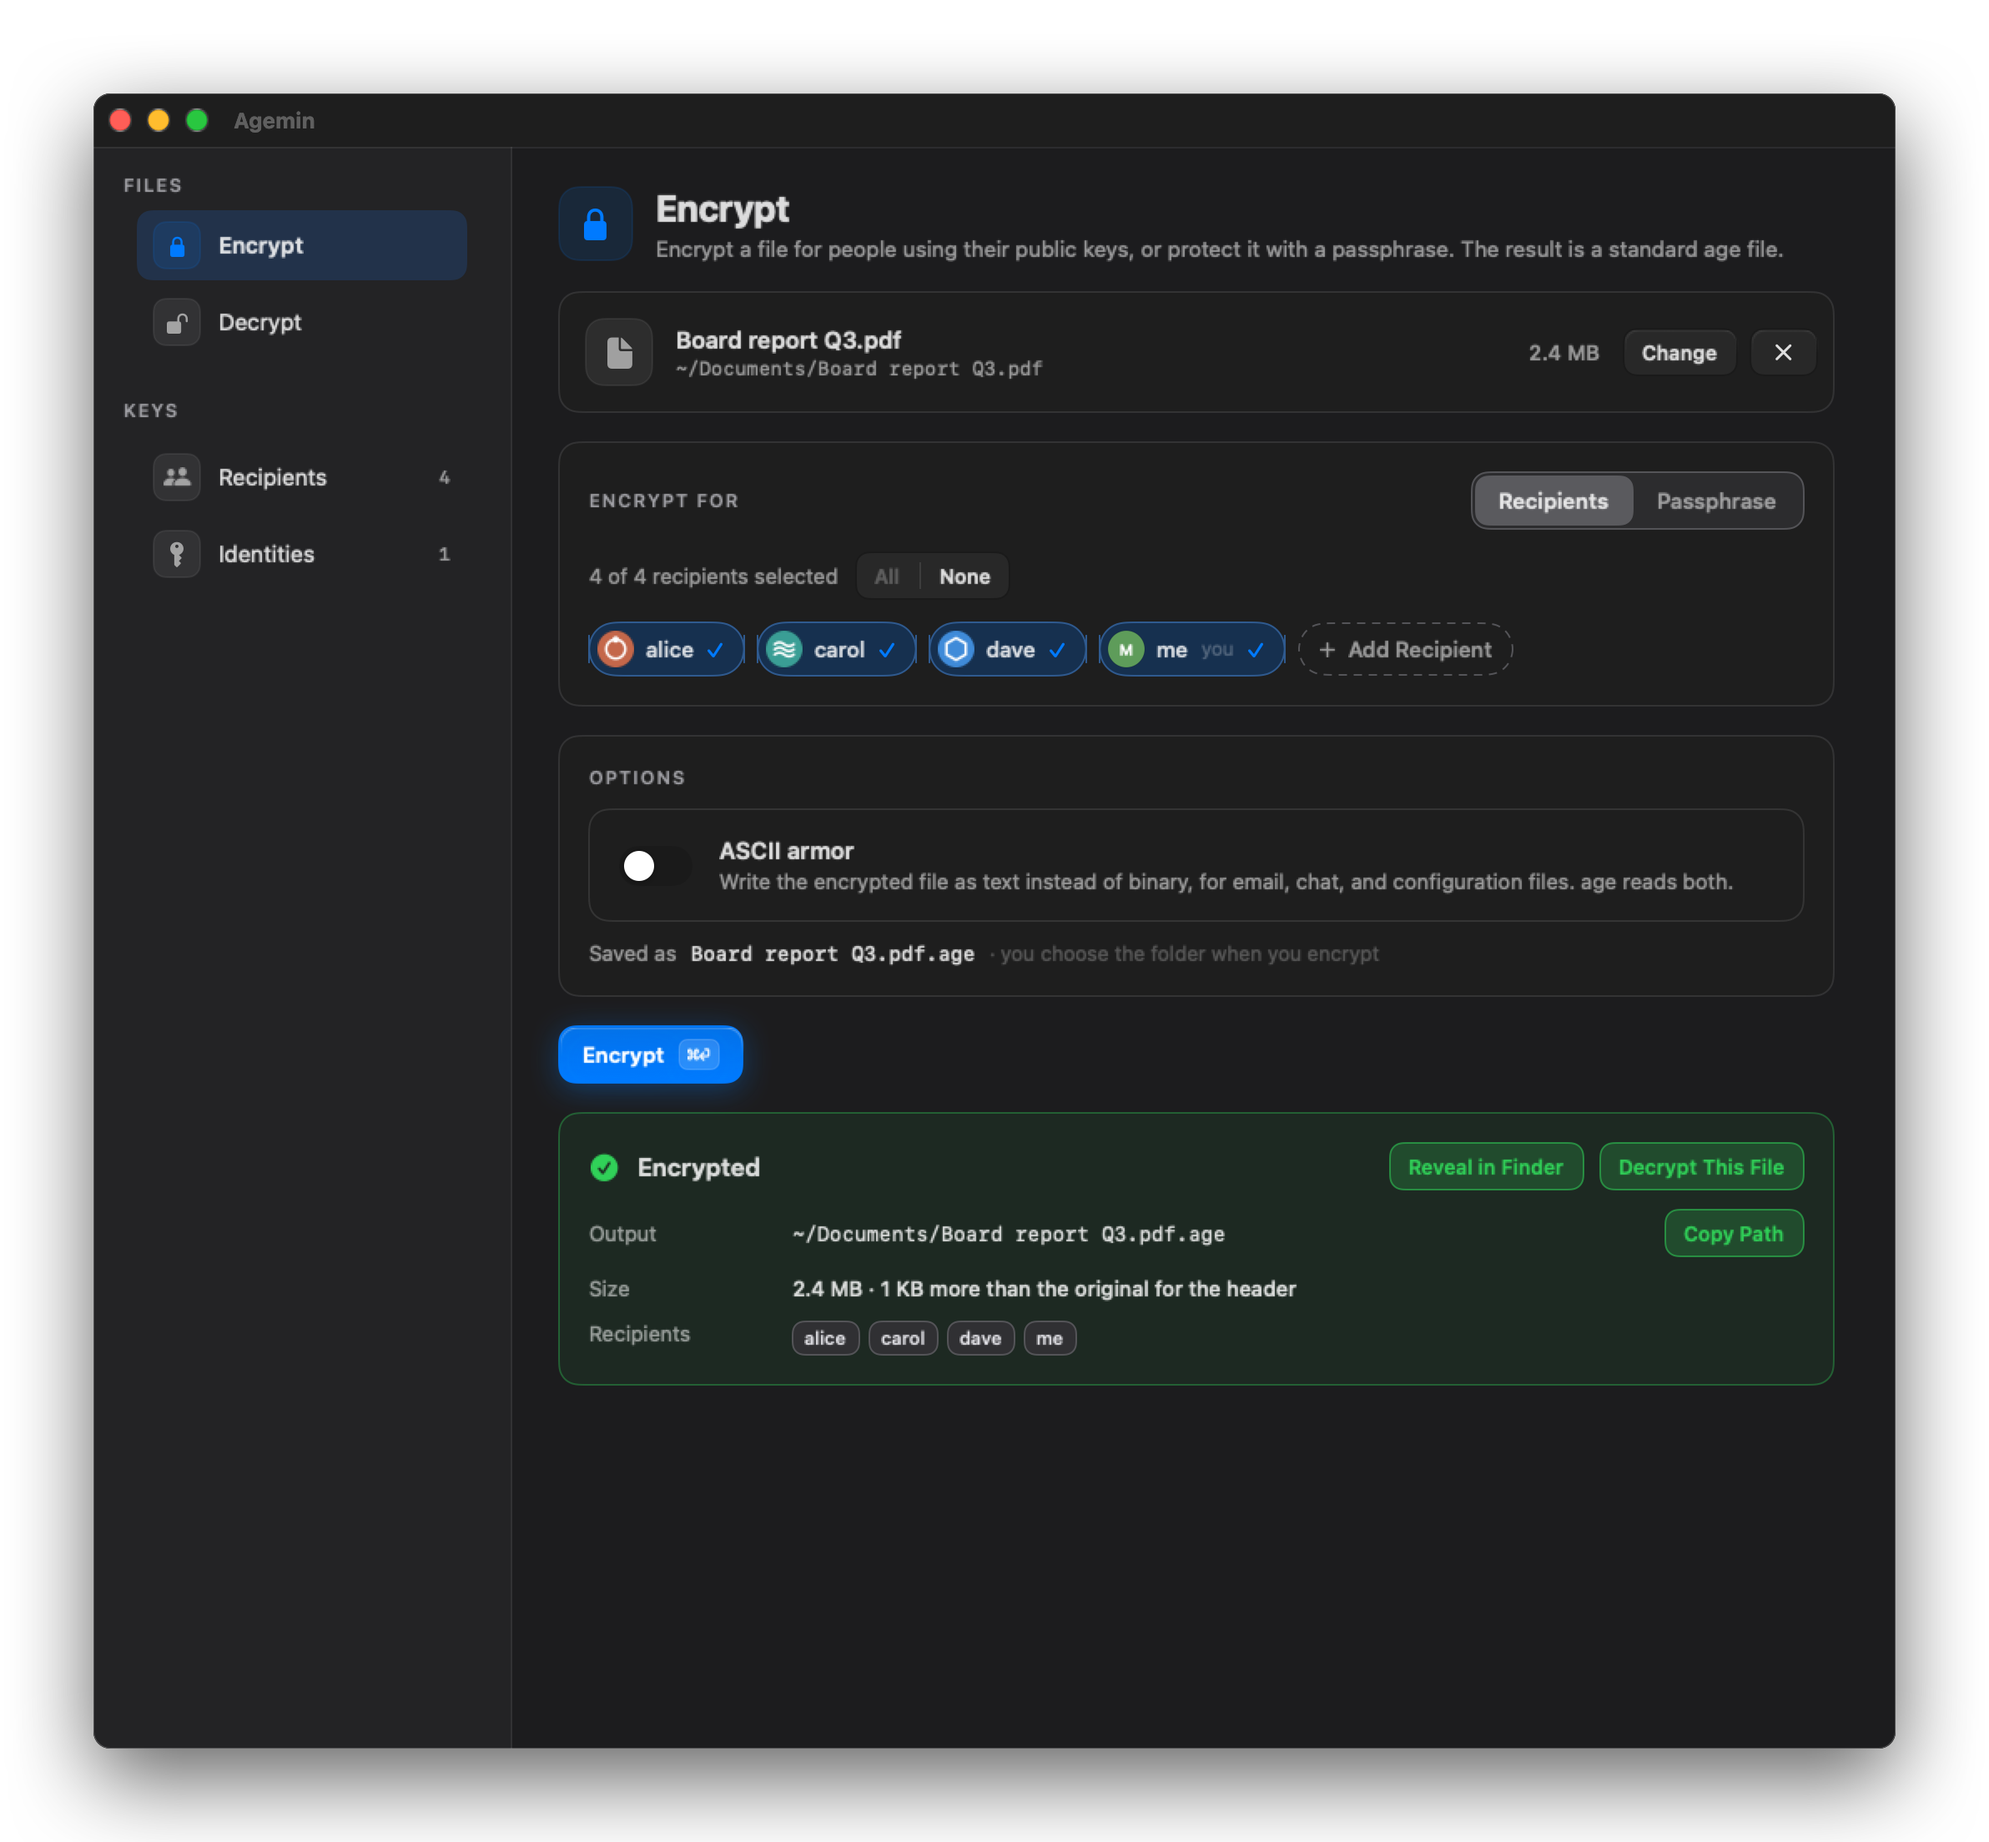
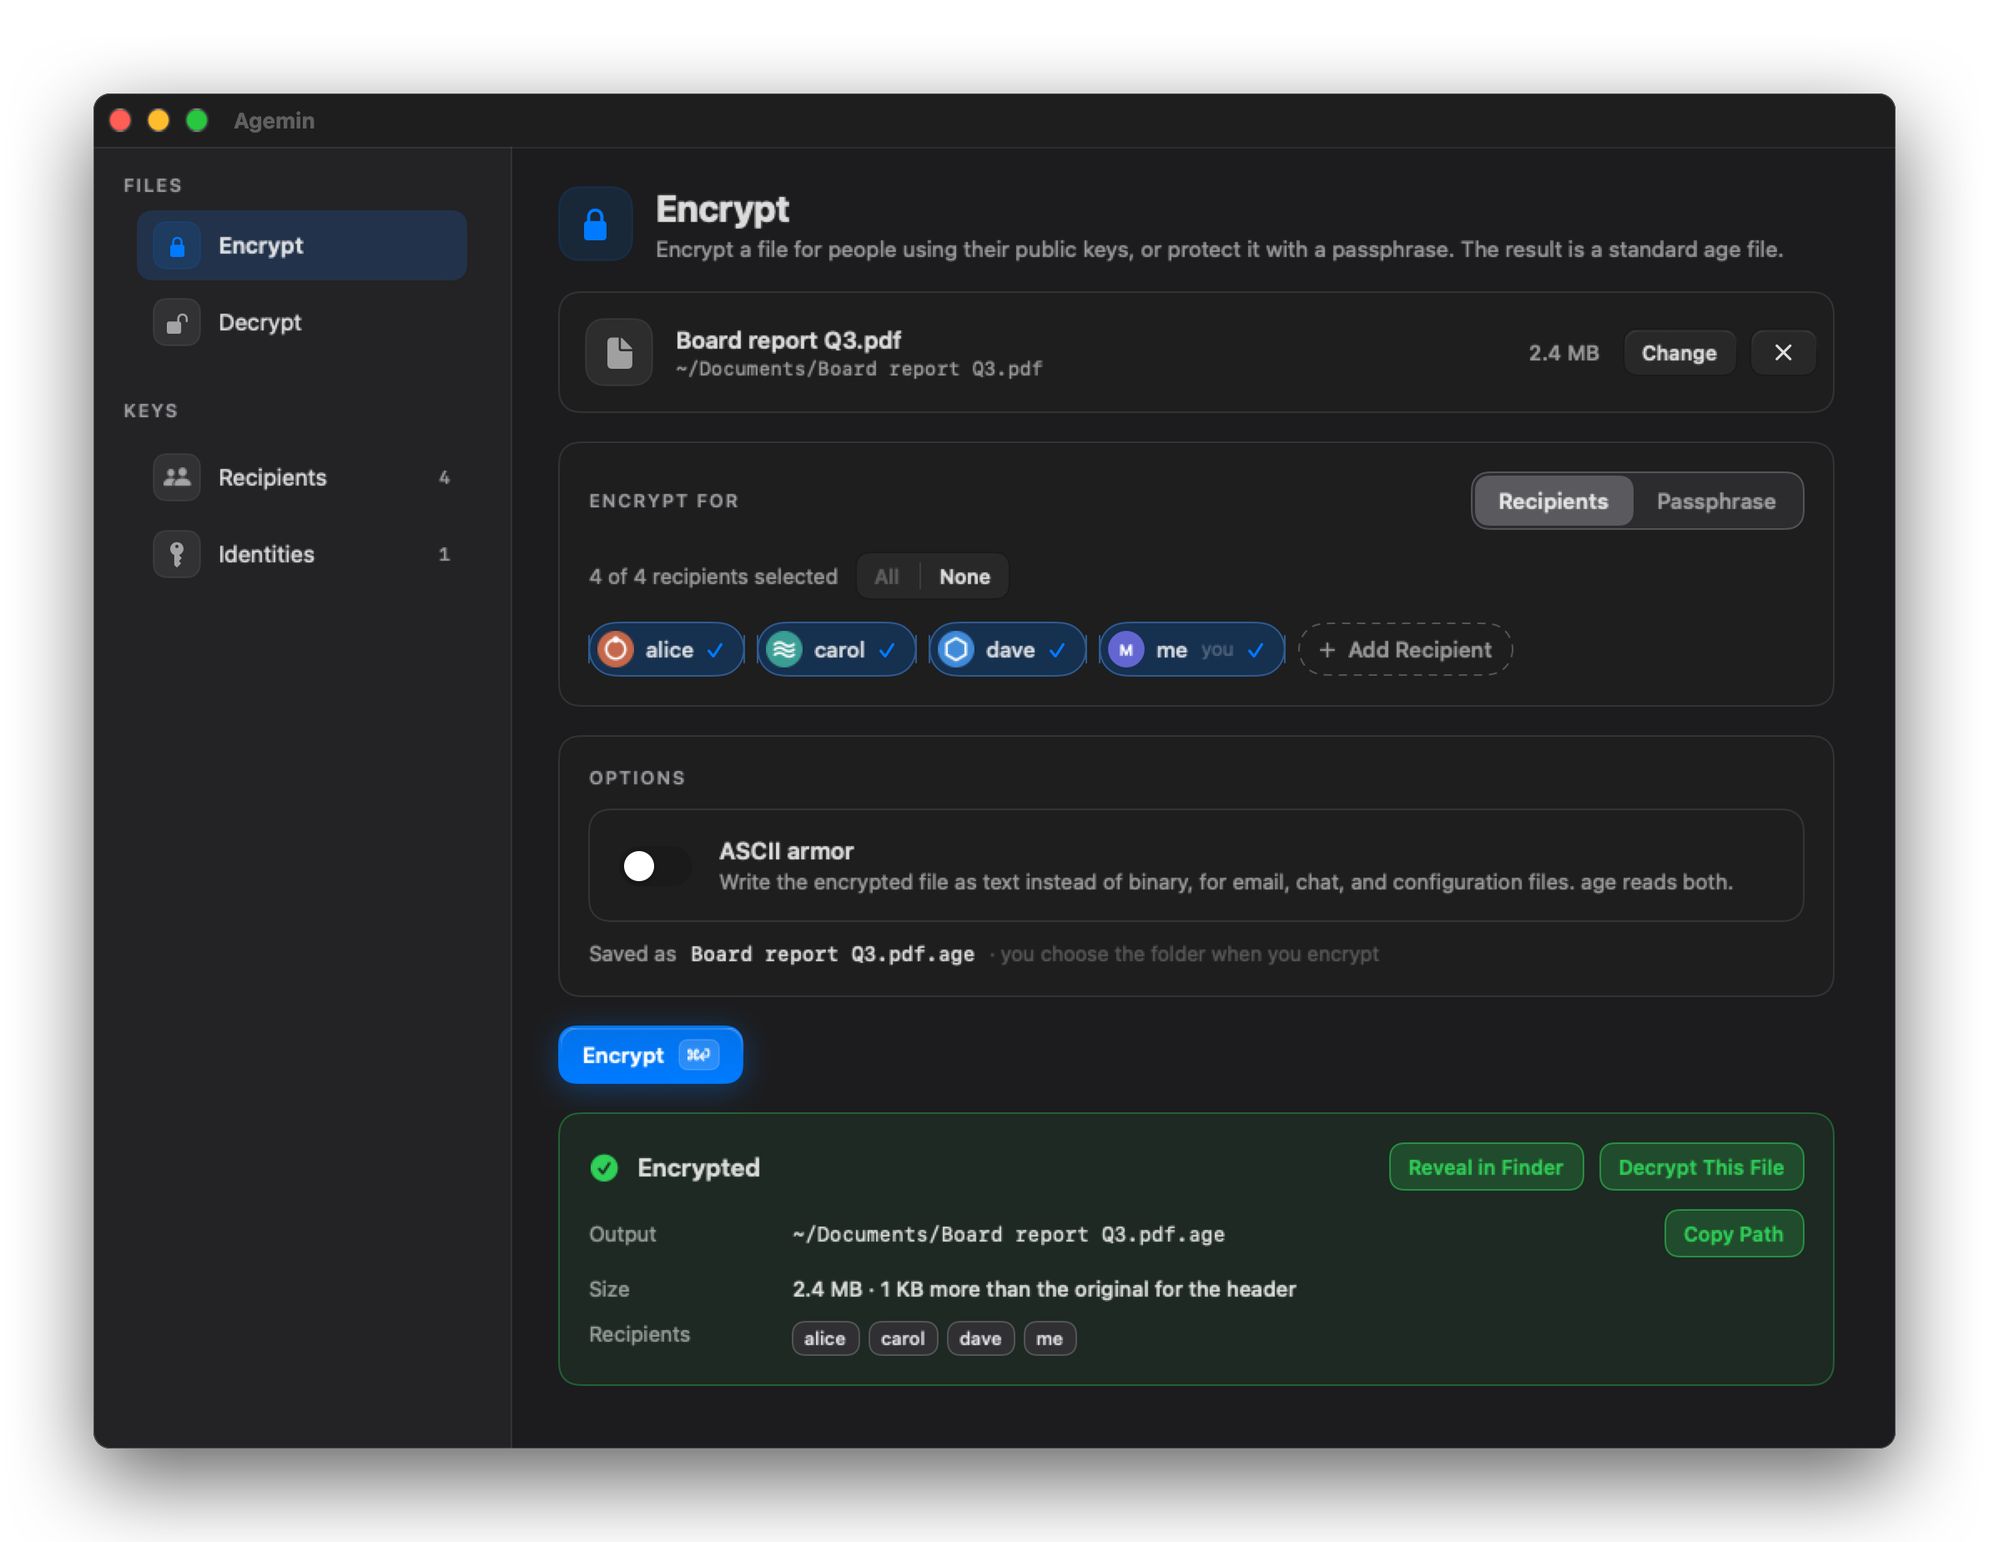
Fix hero window height

diff --git a/scripts/render_hero.swift b/scripts/render_hero.swift
@@ -10,7 +10,7 @@ import SwiftUI
 @main
 enum RenderHero {
     // Window size in points, output scale, canvas margin that holds the shadow, and corner radius.
-    static let windowSize = NSSize(width: 1080, height: 960)
+    static let windowSize = NSSize(width: 1080, height: 780)
     static let scale: CGFloat = 2
     static let margin: CGFloat = 56
     static let cornerRadius: CGFloat = 10
